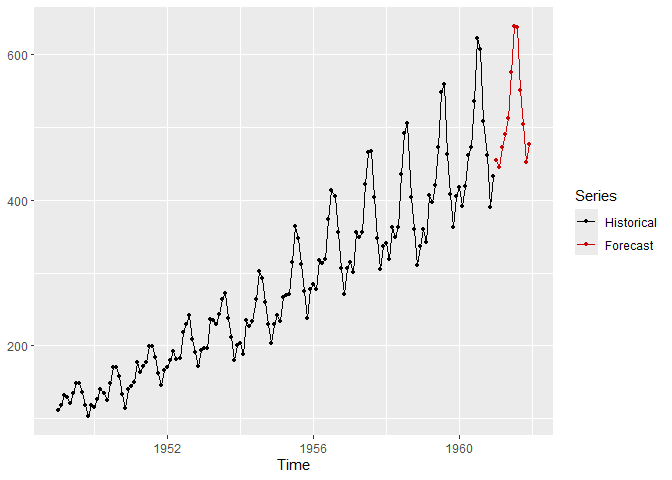
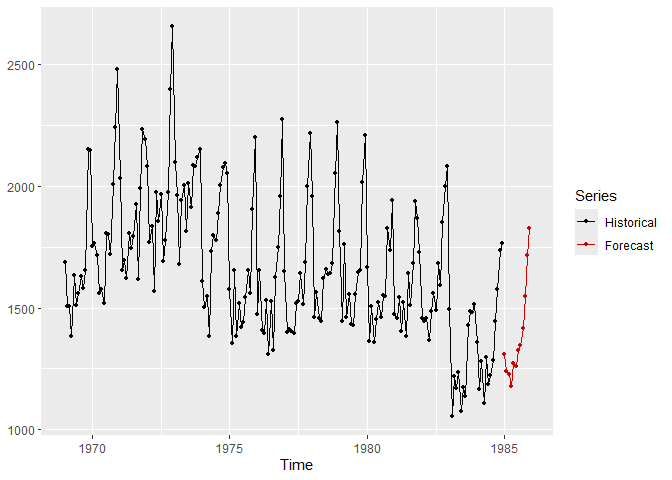
Improve vignette

diff --git a/README.md b/README.md
@@ -32,14 +32,14 @@ This is a basic example which shows you how to solve a common problem:
 
 ``` r
 library(utsf)
-# Forecast the next 12 future values of time series AirPassengers using random forest
-m <- create_model(AirPassengers, method = "rf")
+# Forecast the next 12 future values of time series UKDriverDeaths using random forest
+m <- create_model(UKDriverDeaths, method = "rf")
 f <- forecast(m, h = 12)
 f$pred # to see the forecast
 #>           Jan      Feb      Mar      Apr      May      Jun      Jul      Aug
-#> 1961 453.9965 445.0194 471.3746 489.6408 511.3382 574.8855 637.5217 636.8638
+#> 1985 1310.838 1238.733 1225.454 1179.955 1272.244 1260.304 1324.537 1346.230
 #>           Sep      Oct      Nov      Dec
-#> 1961 550.5418 503.2502 452.0925 475.6288
+#> 1985 1417.952 1548.769 1715.828 1827.326
 library(ggplot2)
 autoplot(f)
 ```

diff --git a/NEWS.md b/NEWS.md
@@ -3,7 +3,7 @@
 * The preprocessing for dealing with the trend is now specified in a simpler
   way.
 * The vignette has been improved.
-* The way in which tuning parameters are specified to user models has changed.
+* The way in which tuning parameters are specified to user's models has changed.
 
 # utsf 1.3.0
 